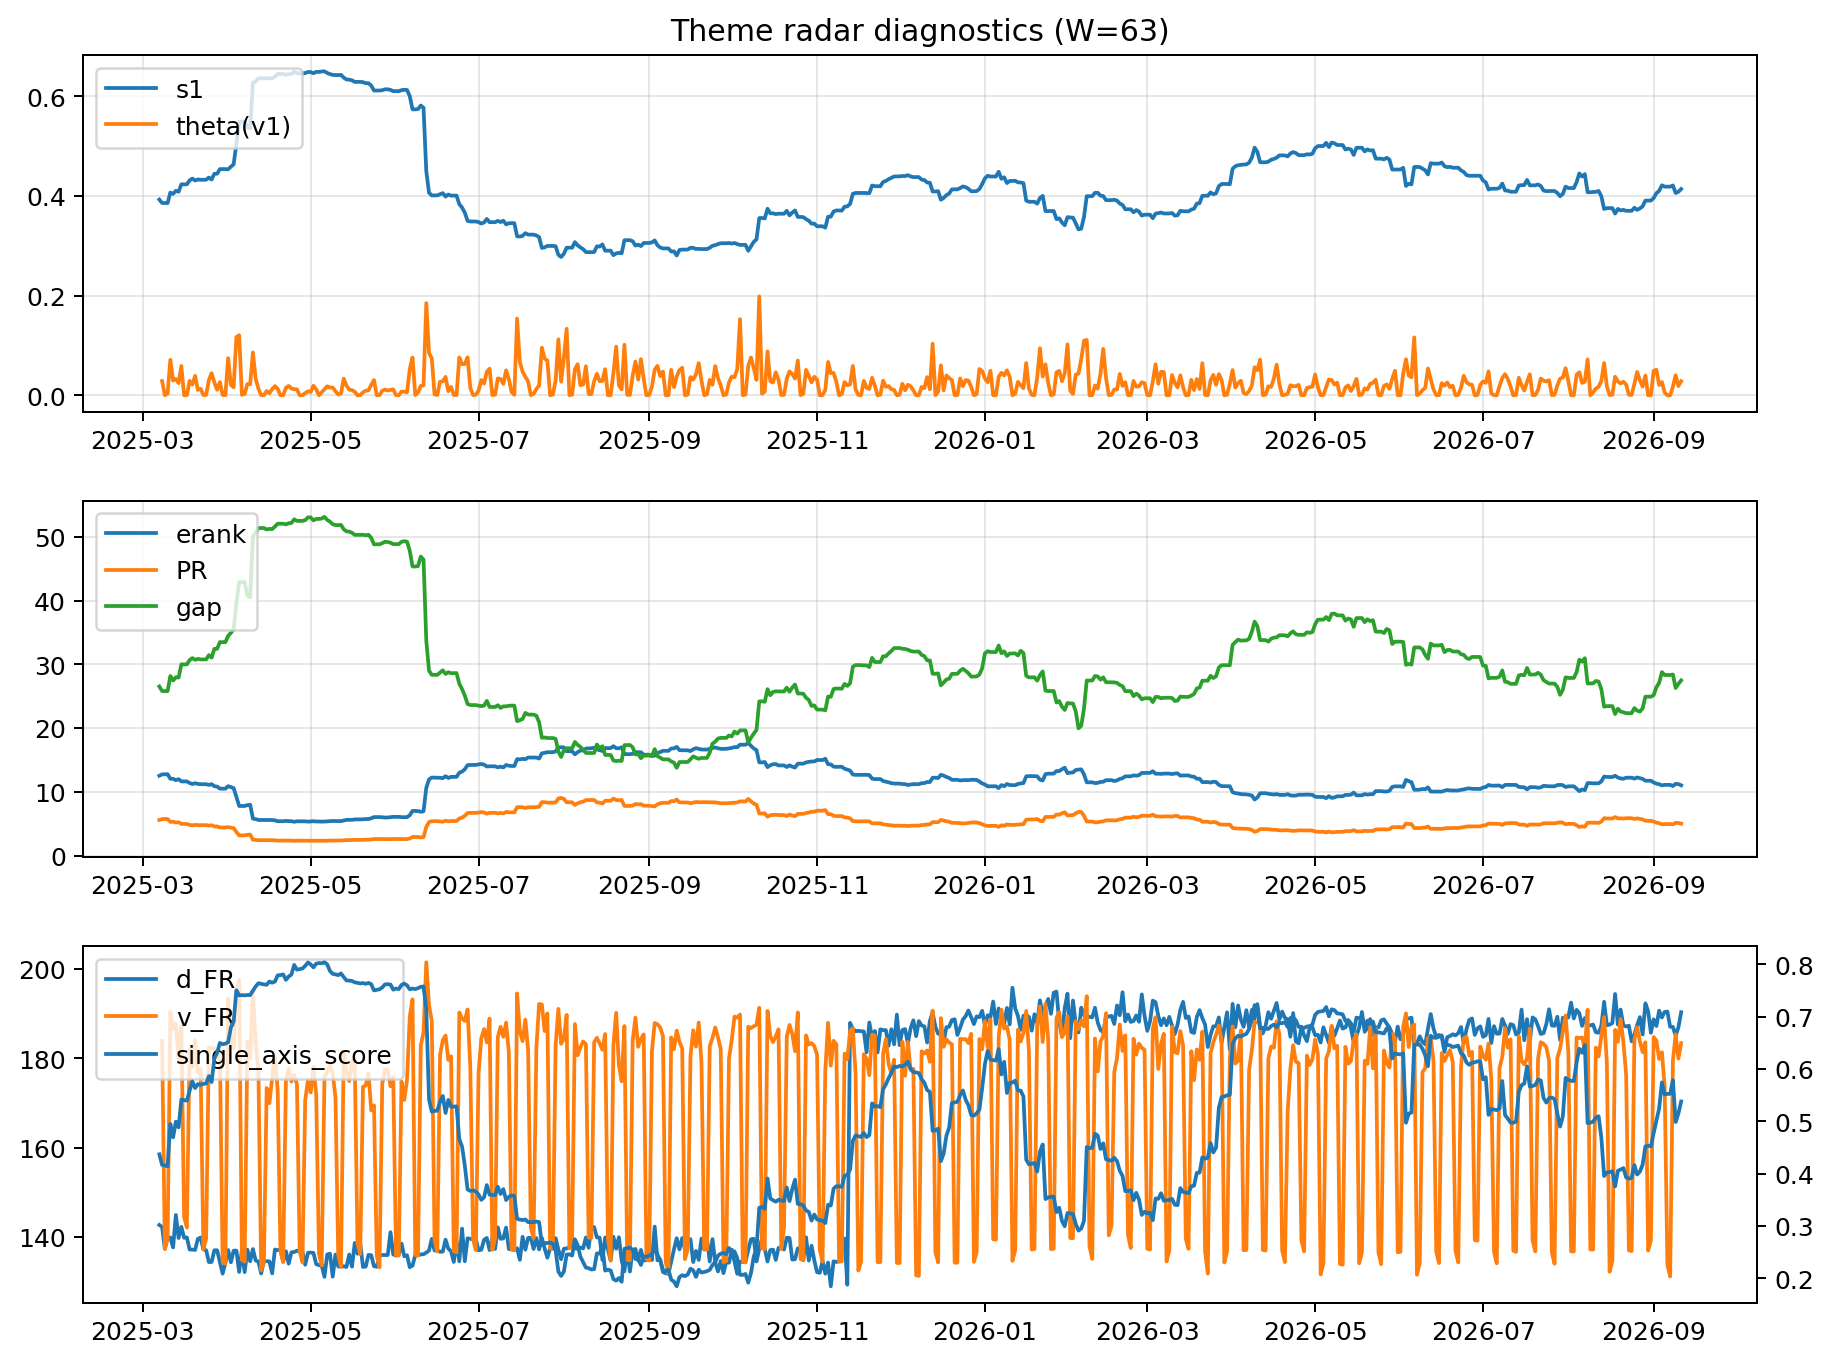
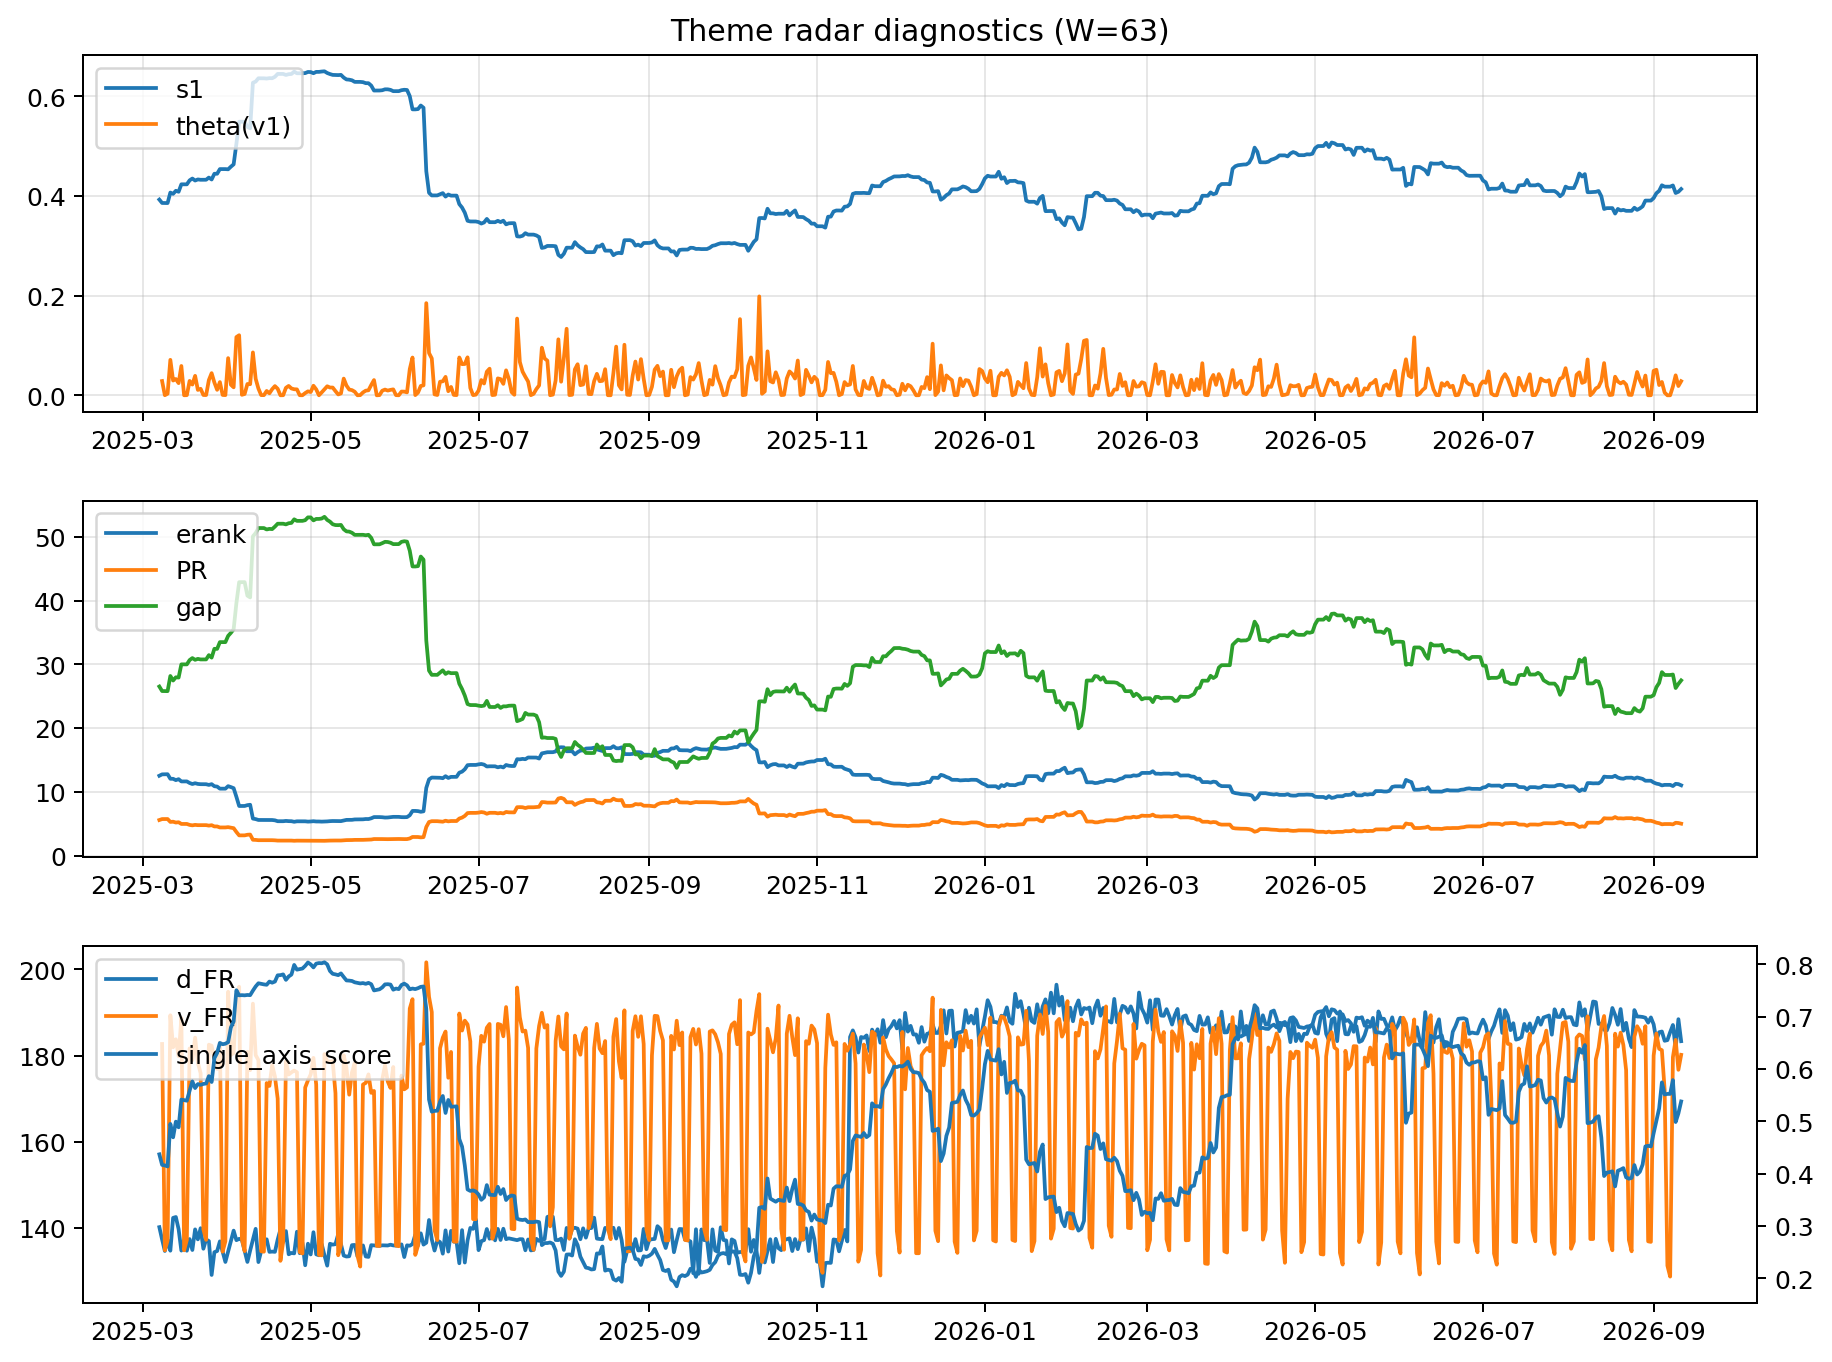
log: 2026-09-11 | sha256:3119d2a21d02a4ca14621e152d7559c35334428072afea426e44a417def3411d

diff --git a/logs/2026-09-11.md b/logs/2026-09-11.md
@@ -3,43 +3,43 @@
 ![diagnostic W63](../assets/diagnostic/2026-09-11_W63.png)
 
 ## Leaders (v1) — W=63
-- **Nuclear_Uranium** (0.0880299291504757)
-- Semis (0.0690823758214484)
-- Quantum (0.06283383196141)
+- **Nuclear_Uranium** (0.0880299345634087)
+- Semis (0.0690823830021257)
+- Quantum (0.0628338360328669)
 
 ## Challengers — W=63
-**v2:** Rates (0.0953957787626385), Semis (0.0755712424828835), Grid_Power (0.0597372580452463)
-**v3:** Crypto (0.0843832892734796), Metals (0.0820271631141943), Genomics_Bio (0.0727103360538015)
+**v2:** Rates (0.0953957982623571), Semis (0.0755712210496273), Grid_Power (0.0597372014395288)
+**v3:** Crypto (0.0843833439703123), Metals (0.0820272072046755), Genomics_Bio (0.0727104192591474)
 
 ## Migration (20D slope) — W=63
 **Top risers:**
-- axis_Rates: 0.0006741334386362
-- axis_DataCenter_Infra: 0.0005372032090524
-- axis_Genomics_Bio: 0.0004036500259067
-- axis_Crypto: 0.000372924243098
-- axis_Space: 0.0003409541975824
-- axis_Software_Cloud: 0.0002613571359991
-- axis_Commodities: 0.0002040177453322
-- axis_Drones_Autonomy: 0.000183184193503
-- axis_Metals: 0.0001704902823474
-- axis_Sector_Fin: 0.000106183044911
+- axis_Rates: 0.0006741388981278
+- axis_DataCenter_Infra: 0.0005372026344959
+- axis_Genomics_Bio: 0.000403649949265
+- axis_Crypto: 0.0003729242416439
+- axis_Space: 0.0003409539553356
+- axis_Software_Cloud: 0.0002613572873736
+- axis_Commodities: 0.0002040177593722
+- axis_Drones_Autonomy: 0.0001831844568892
+- axis_Metals: 0.0001704905974908
+- axis_Sector_Fin: 0.0001061830820464
 
 **Top fallers:**
-- axis_Equity_ExUS: -0.0001465862877564
-- axis_Sector_Health: -0.0001494943770568
-- axis_Quantum: -0.0001678060589558
-- axis_Equity_US: -0.00018027275453
-- axis_Sector_Utilities: -0.0002007269528517
-- axis_Critical_Minerals: -0.000255899578138
-- axis_Sector_RealEstate: -0.0002930841683443
-- axis_Grid_Power: -0.0002993136265369
-- axis_Nuclear_Uranium: -0.0003106905588933
-- axis_Semis: -0.0004274531366429
+- axis_Equity_ExUS: -0.0001465866024731
+- axis_Sector_Health: -0.0001494946333439
+- axis_Quantum: -0.0001678068094649
+- axis_Equity_US: -0.000180273297241
+- axis_Sector_Utilities: -0.0002007270716041
+- axis_Critical_Minerals: -0.0002559001500652
+- axis_Sector_RealEstate: -0.0002930844319374
+- axis_Grid_Power: -0.0002993146771709
+- axis_Nuclear_Uranium: -0.0003106914263128
+- axis_Semis: -0.0004274543271024
 
 ## Risk line (W=63)
-- s1: 0.4137448001265267
-- theta_v1: 0.0282761255509429
-- v_FR: 183.37409391775583
+- s1: 0.4137447062112642
+- theta_v1: 0.028276132783432
+- v_FR: 180.16471059390688
 - single_axis_score: 0.5379061371841155
 
 ## Interpretation
@@ -48,7 +48,7 @@
 - Action: Tomorrow watchlist: Rates, DataCenter_Infra, Genomics_Bio, Crypto, Space + v2_top1=Rates
 - Action: Hedge note: normal correlation stability.
 
-- Percentiles (W=63 history): vfr_pct=0.65, theta_pct=0.64, s1_pct=0.53, score_pct=0.55.
+- Percentiles (W=63 history): vfr_pct=0.48, theta_pct=0.64, s1_pct=0.53, score_pct=0.55.
 
 ---
[2 lines of base64/hex data omitted]
